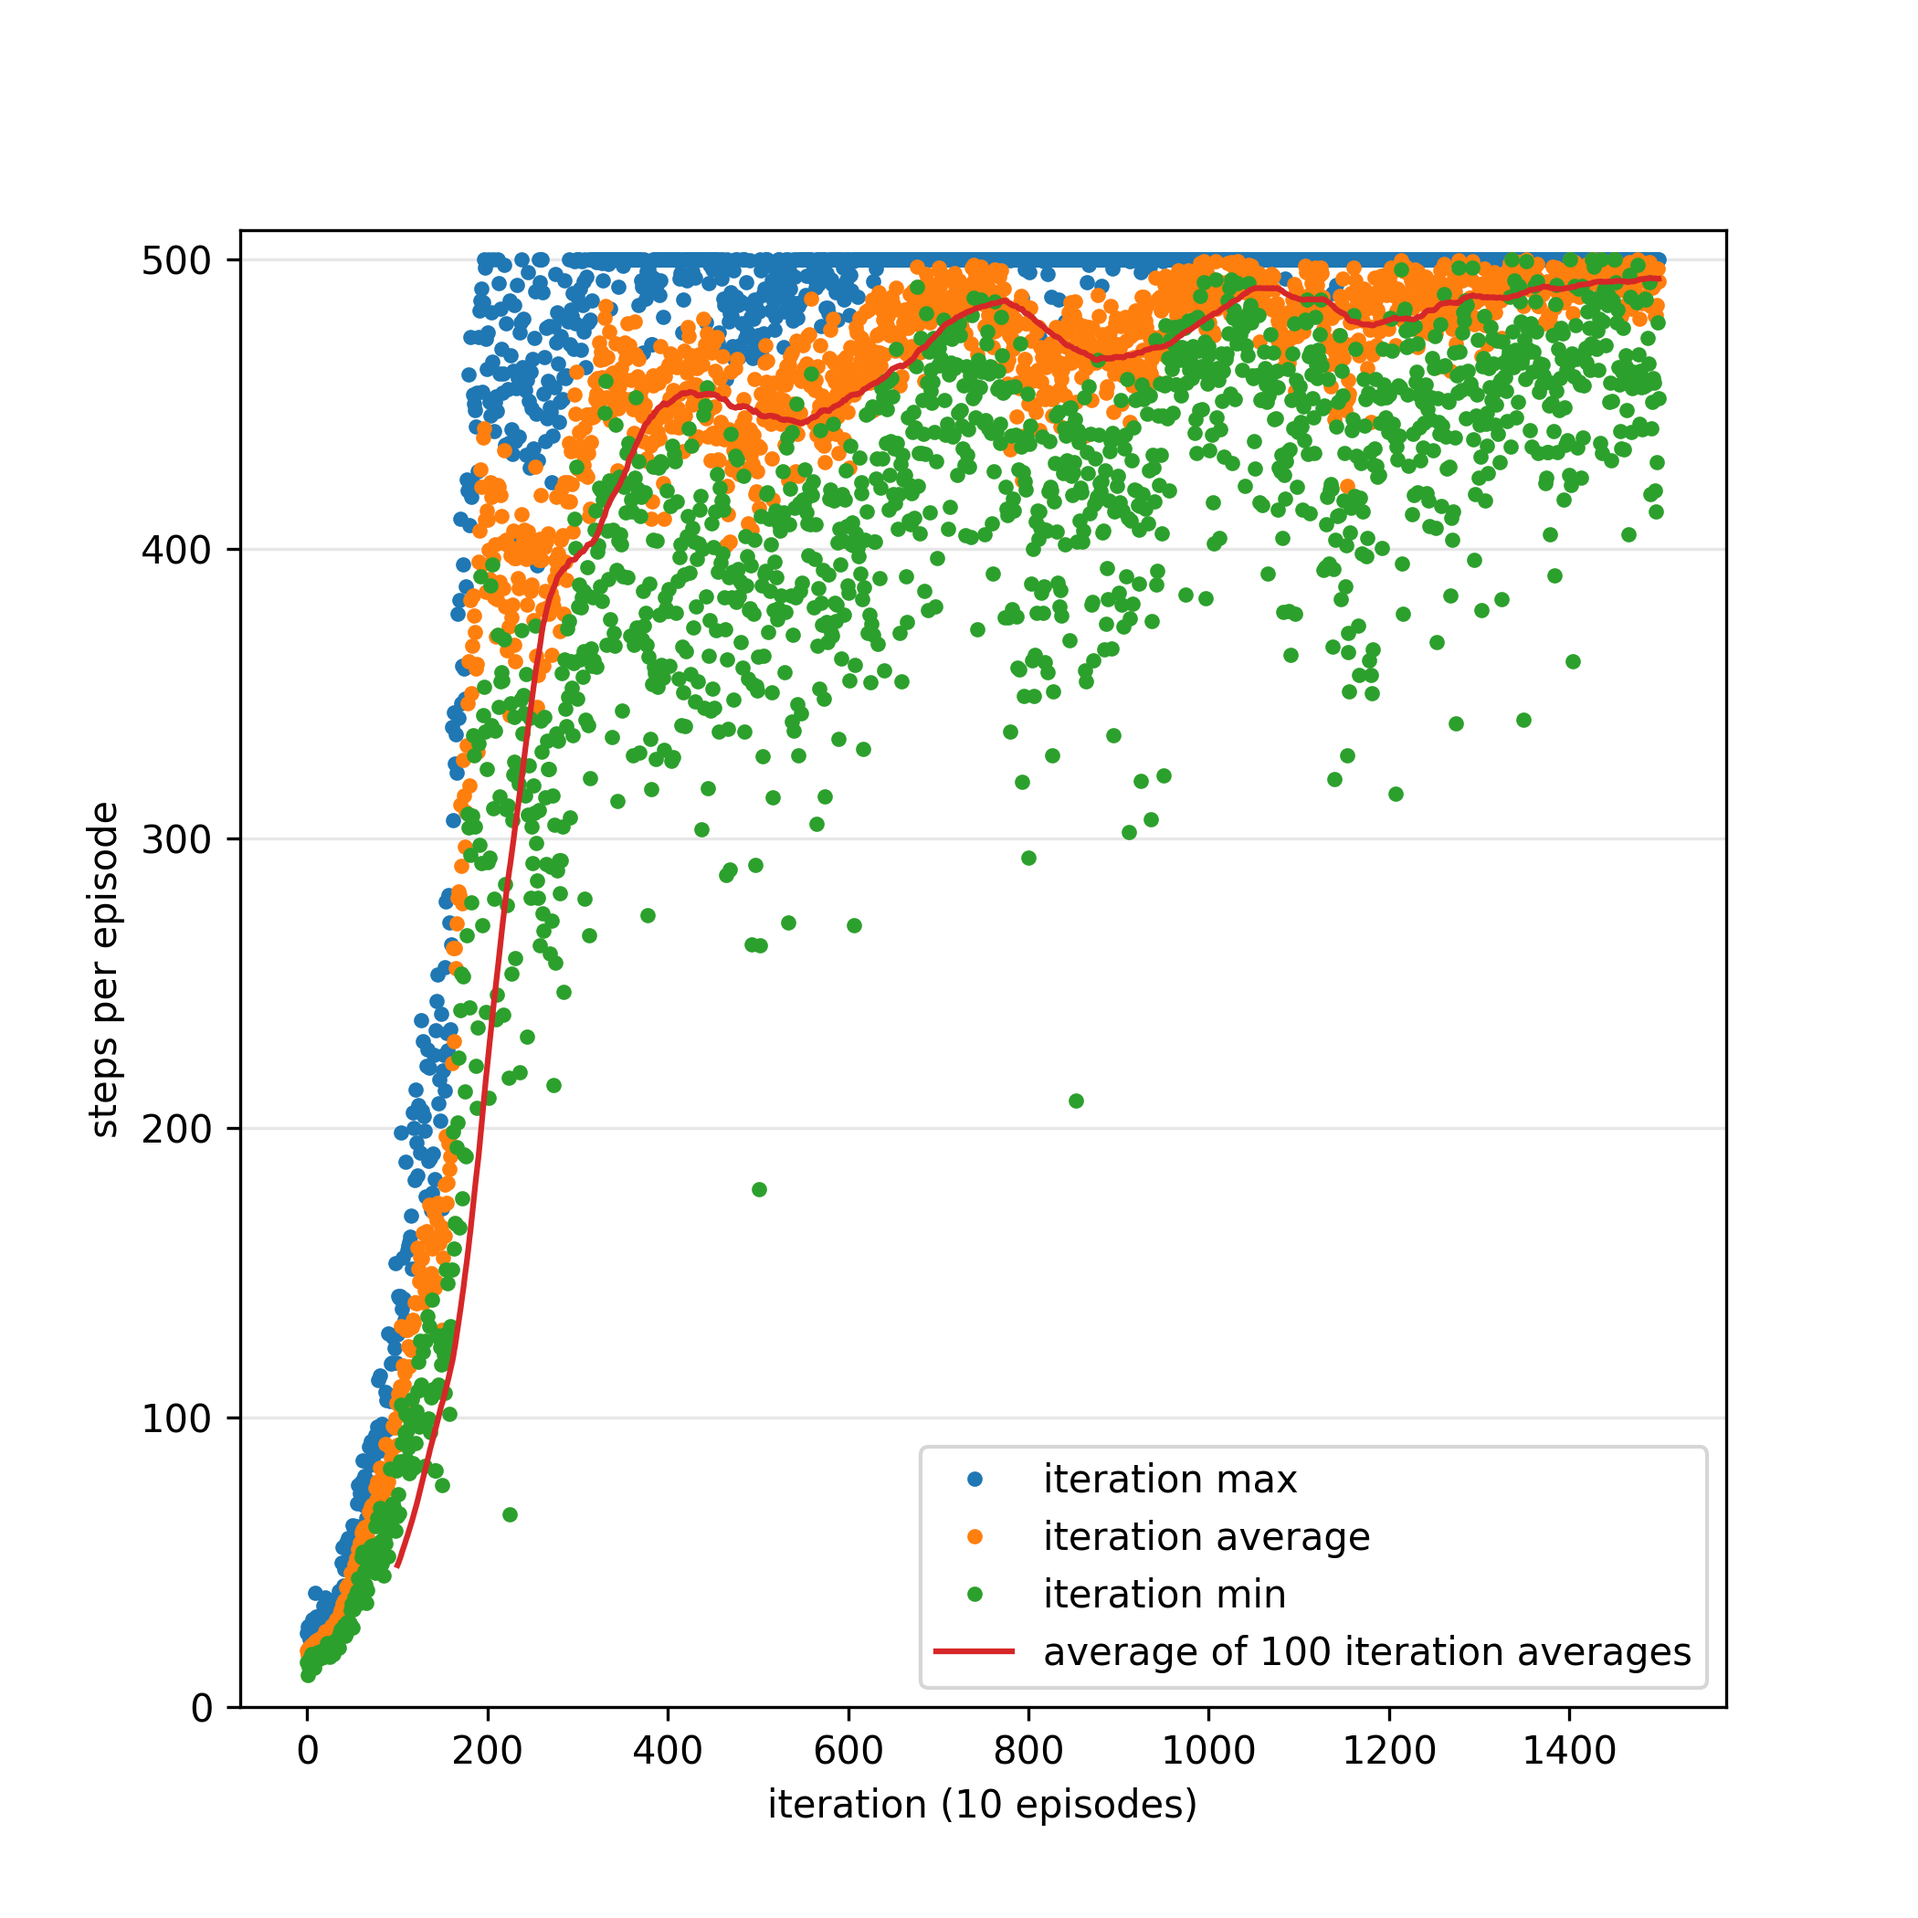
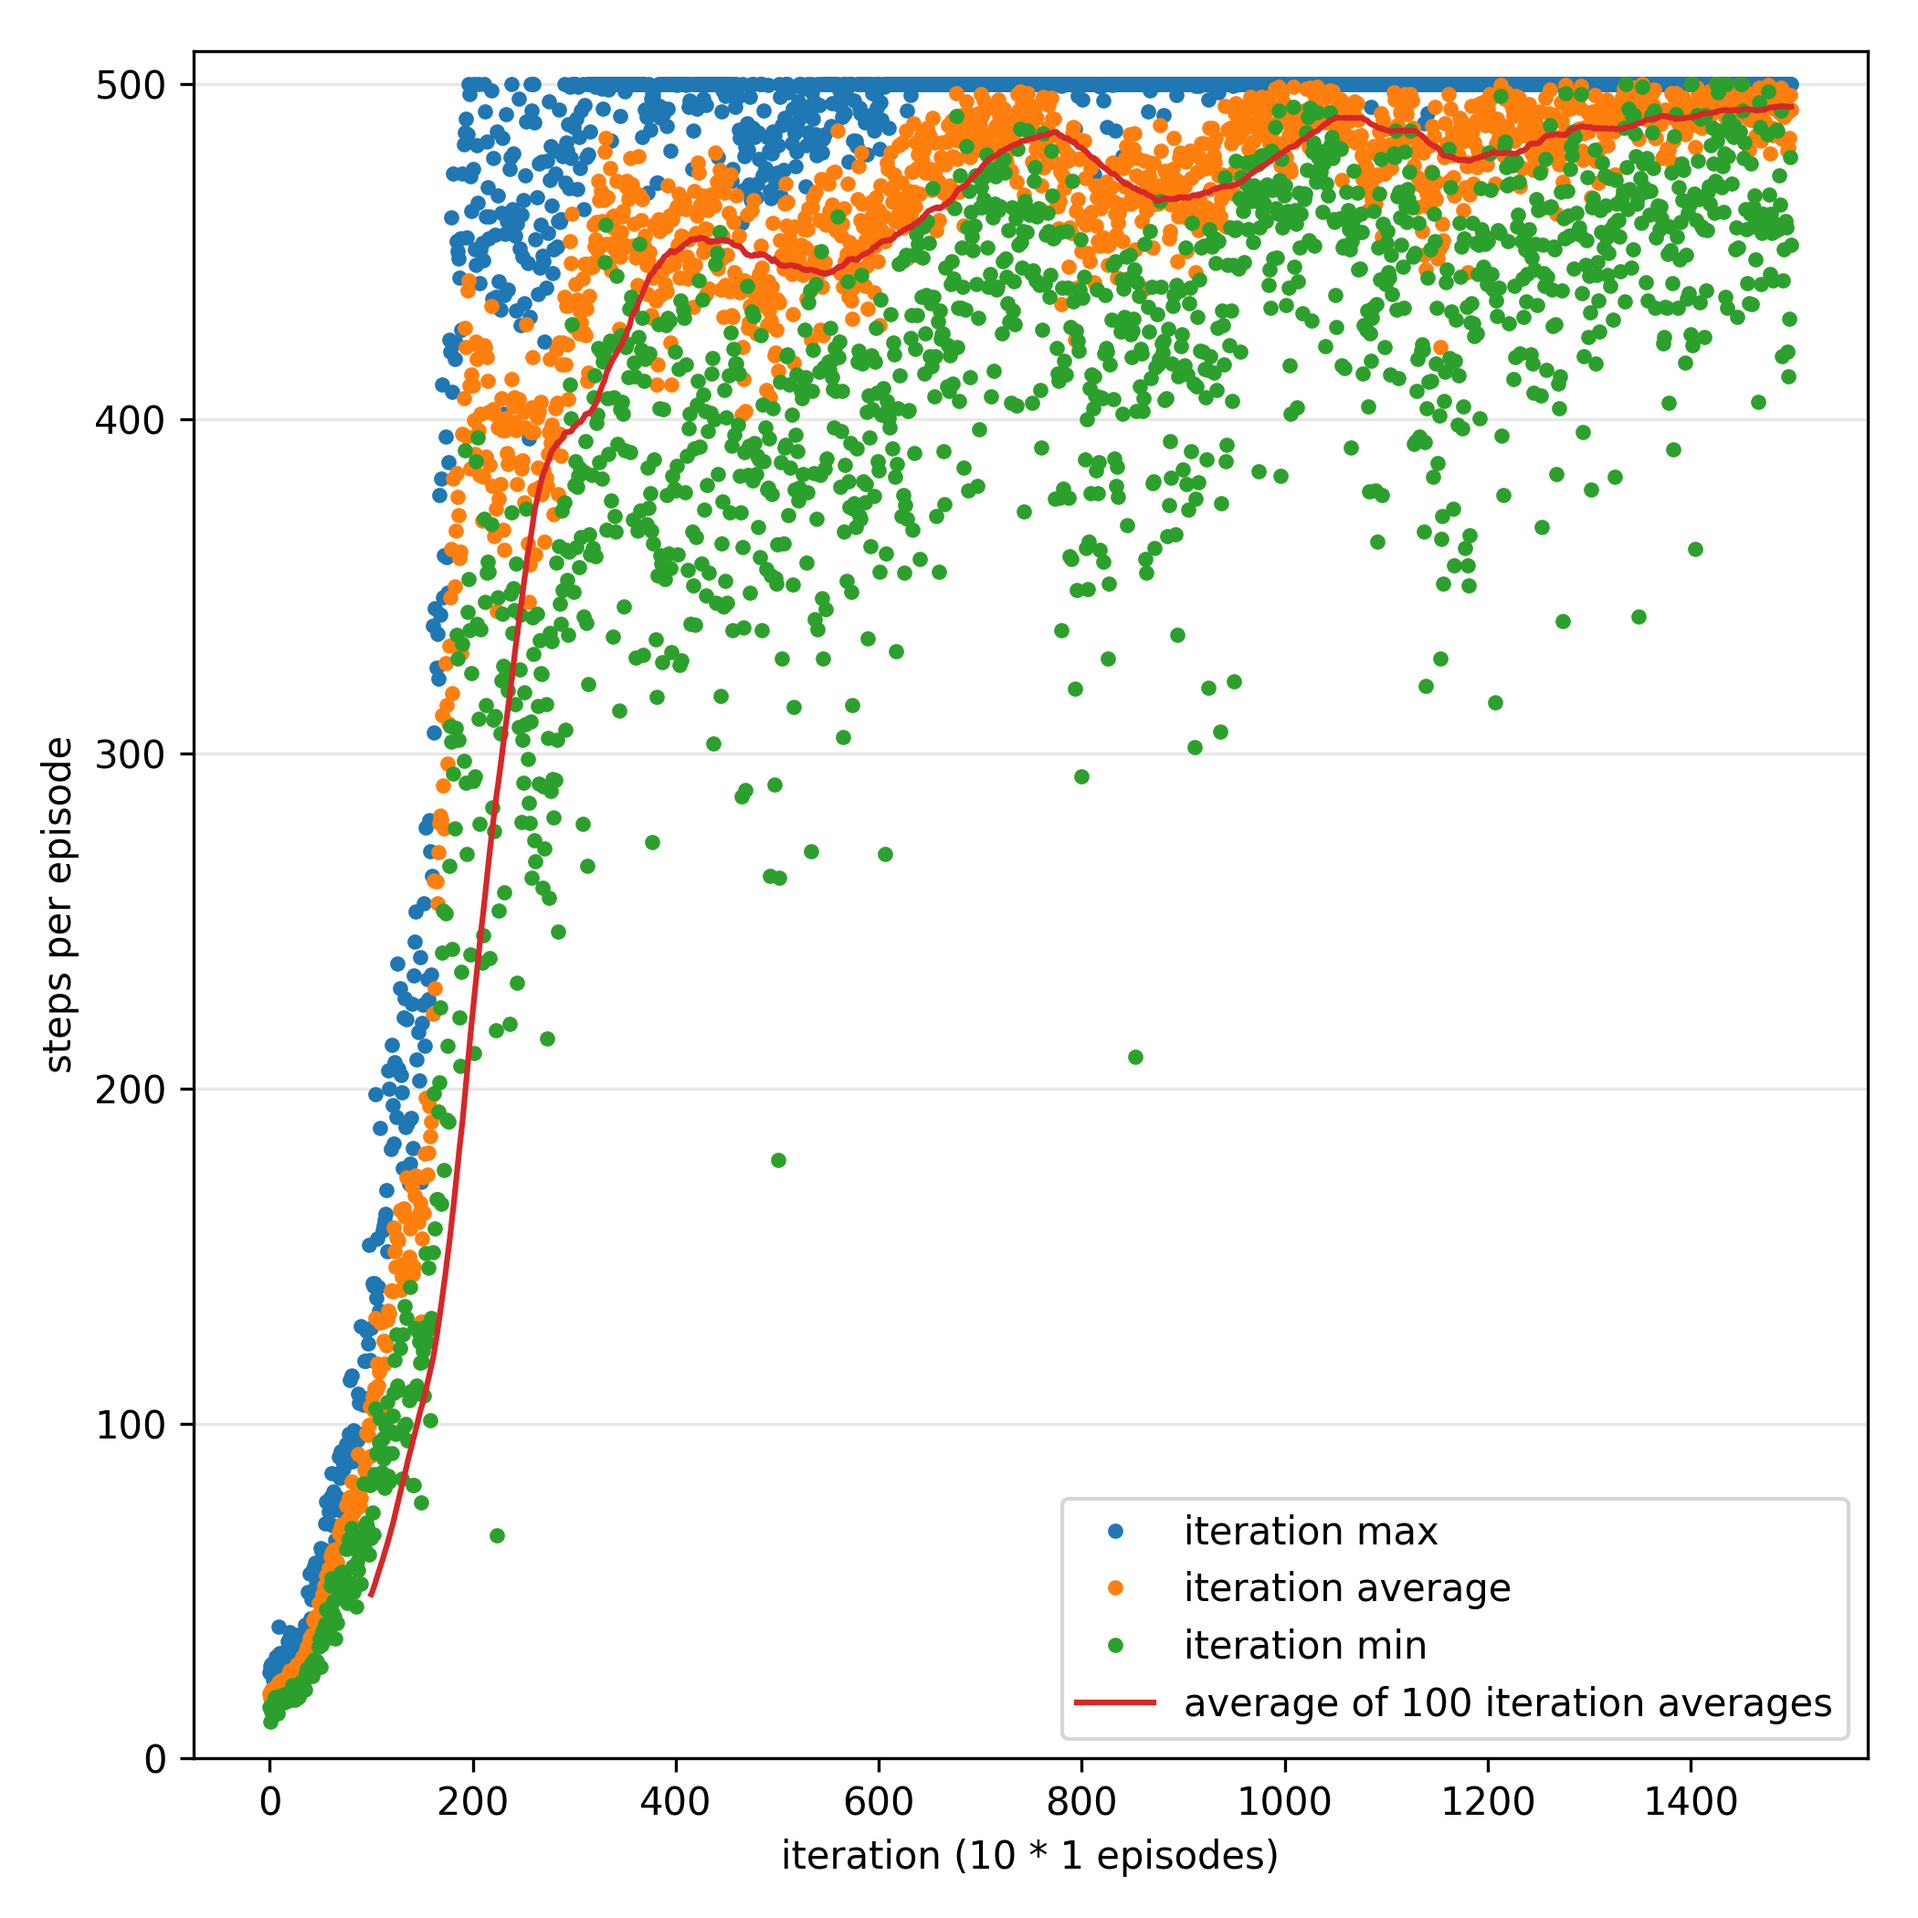
Update plots for EVOLstdprl results based on new code

diff --git a/neurosim/tools/eval_multimodel.py b/neurosim/tools/eval_multimodel.py
@@ -187,7 +187,7 @@ def spiking_frequencies_table(wdirs, outdir):
       writer.writerow(row)
 
 
-def iters_for_evol(wdir, outdir=None, steps=[100], delimit_wdirs=False, bval=1):
+def iters_for_evol(wdir, outdir=None, steps=[100], delimit_wdirs=False):
   if not outdir:
     outdir = wdir
   outputfile = os.path.join(
@@ -206,6 +206,13 @@ def iters_for_evol(wdir, outdir=None, steps=[100], delimit_wdirs=False, bval=1):
           'max': float(iter_max),
         })
 
+  pop = None
+  beta_iters = None
+  with open(os.path.join(wdir, 'backupcfg_sim.json')) as f:
+    config = json.load(f)
+    pop = config['ES']['population_size']
+    beta_iters = config['ES']['episodes_per_iter']
+
   plt.figure(figsize=(7,7))
   plt.ylim(0, 510)
   plt.grid(axis='y', alpha=0.3)
@@ -221,7 +228,7 @@ def iters_for_evol(wdir, outdir=None, steps=[100], delimit_wdirs=False, bval=1):
   plt.legend(['iteration max', 'iteration average', 'iteration min'] +
     ['average of {} iteration averages'.format(step) for step in tr_averages.keys()],
     loc='lower right', framealpha=0.95)
-  plt.xlabel('iteration ({} episodes)'.format(10 * bval))
+  plt.xlabel('iteration ({} * {} episodes)'.format(pop, beta_iters))
   plt.tight_layout()
 
   plt.savefig(outputfile, dpi=300)
@@ -248,6 +255,13 @@ def iters_for_evolstdprl(wdir, outdir=None, at_iter='alpha', steps=[100]):
           'max': float(iter_max),
         })
 
+  pop = None
+  beta_iters = None
+  with open(os.path.join(wdir, 'backupcfg_sim.json')) as f:
+    config = json.load(f)
+    pop = config['STDP_ES']['population_size']
+    beta_iters = config['STDP_ES']['beta_iters']
+
   plt.figure(figsize=(7,7))
   plt.ylim(0, 510)
   plt.grid(axis='y', alpha=0.3)
@@ -263,8 +277,70 @@ def iters_for_evolstdprl(wdir, outdir=None, at_iter='alpha', steps=[100]):
 
   plt.legend(['iteration max', 'iteration average', 'iteration min'] +
     ['average of {} iteration averages'.format(step) for step in tr_averages.keys()])
-  plt.xlabel('iteration (10 episodes)')
+  plt.xlabel('iteration ({} * {} episodes)'.format(pop, beta_iters))
+  plt.tight_layout()
   plt.savefig(outputfile, dpi=300)
+
+def all_iters_for_evolstdprl(wdir):
+  for at_iter in ['alpha', 'beta', 'gamma']:
+    iters_for_evolstdprl(wdir, at_iter=at_iter)
+
+def eval_for_evolstdprl(wdirs, outdir=None, steps=[100]):
+  if type(wdirs) == str:
+    wdirs = wdirs.split(',')
+
+  if not outdir:
+    outdir = wdirs[0]
+  outputfile = os.path.join(
+    outdir, 'evalperf_during_training.png')
+
+  plt.figure(figsize=(7,7))
+  plt.ylim(0, 510)
+  plt.grid(axis='y', alpha=0.3)
+  plt.ylabel('steps per episode')
+  legend = []
+  pop = None
+
+  for wdir in wdirs:
+    for at_iter in ['alpha', 'gamma']:
+      all_wdir_steps, _ = _extract_hpsteps(wdir)
+      training_results = []
+      offset = 0 if at_iter == 'alpha' else (4 if at_iter == 'beta' else 9)
+      for wdir_steps in all_wdir_steps:
+        with open(os.path.join(wdir_steps, 'STDP_es_train.csv')) as f:
+          for row in csv.reader(f, delimiter=','):
+            iter_median, iter_mean, iter_min, iter_max = row[offset:offset+4]
+            training_results.append({
+              'median': float(iter_median),
+              'mean': float(iter_mean),
+              'min': float(iter_min),
+              'max': float(iter_max),
+            })
+
+      beta_iters = None
+      with open(os.path.join(wdir, 'backupcfg_sim.json')) as f:
+        config = json.load(f)
+        new_pop = config['STDP_ES']['population_size']
+        if not pop:
+          pop = new_pop
+        if new_pop != pop:
+          raise Exception("Different population sizes")
+        beta_iters = config['STDP_ES']['beta_iters']
+
+      tr_averages = {STEP: _get_agg([tr['mean'] for tr in training_results], STEP, np.average) for STEP in steps}
+      # plt.plot(list(range(len(training_results))), [tr['mean'] for tr in training_results], '.')
+      for step, averages in tr_averages.items():
+        plt.plot([t + step for t in range(len(averages))], averages)
+
+      legend.append('B{} model {} STDP'.format(
+        beta_iters,
+        'before' if at_iter == 'alpha' else 'after'))
+
+  plt.legend(legend)
+  plt.xlabel('iteration ({} * B episodes)'.format(pop))
+  plt.tight_layout()
+  plt.savefig(outputfile, dpi=300)
+
 
 def all_iters_for_evolstdprl(wdir):
   for at_iter in ['alpha', 'beta', 'gamma']:
@@ -564,6 +640,7 @@ if __name__ == '__main__':
       'train-perf-comb': steps_per_eps_combined,
       'train-perf-evol': iters_for_evol,
       'train-perf-evolstdprl': all_iters_for_evolstdprl,
+      'train-eval-evolstdprl': eval_for_evolstdprl,
       'train-unk-moves': undecided_moves,
       'eval-perf': eval_perf,
       'select-eps': select_episodes,

diff --git a/neurosim/log_many_things.md b/neurosim/log_many_things.md
@@ -21,16 +21,8 @@ py neurosim/tools/eval_multimodel.py train-perf $WDIR --wdir-name "EVOL goodseed
 WDIR=results/20220123-EVOL_b1-goodseed/continue_1
 WDIR=results/20220123-EVOL_b1-goodseed/continue_1/continue_1
 WDIR=results/20220123-EVOL_b1-goodseed/continue_1/continue_1/continue_1/continue_1
-WDIR=results/20220124-EVOL_b1-badseed/continue_1
-WDIR=results/20220124-EVOL_b1-badseed/continue_1/continue_1
-WDIR=results/20220124-EVOL_b1-badseed/continue_1/continue_1/continue_1
-WDIR=results/20220124-EVOL_b1-badseed/continue_1/continue_1/continue_1/continue_1
-WDIR=results/20220124-EVOL_b1-badseed/continue_1/continue_1/continue_1/continue_1/continue_1
 WDIR=results/20220124-EVOL_b1-badseed/continue_1/continue_1/continue_1/continue_1/continue_1/continue_1
-WDIR=results/20220128-EVOL_b5-badseed/
-WDIR=results/20220128-EVOL_b5-badseed/continue_1/continue_1
 WDIR=results/20220128-EVOL_b5-badseed/continue_1/continue_1/continue_1/continue_1/continue_1/continue_1/continue_1/continue_1/continue_1/continue_1
-WDIR=results/20220129-EVOL_b5-goodseed/continue_1
 WDIR=results/20220129-EVOL_b5-goodseed/continue_1/continue_1/continue_1/continue_1/continue_1/continue_1/continue_1/continue_1
 py neurosim/tools/eval_multimodel.py train-perf-evol $WDIR
 
@@ -124,19 +116,19 @@ py neurosim/tools/eval_multimodel.py boxplot "${CONF1},${CONF2},${CONF3},${CONF4
 WDIR=results/20220123-EVOL_b1-goodseed/continue_1/continue_1/continue_1/continue_1
 py neurosim/tools/eval_multimodel.py train-perf-evol $WDIR
 WDIR=results/20220129-EVOL_b5-goodseed/continue_1/continue_1/continue_1/continue_1/continue_1
-py neurosim/tools/eval_multimodel.py train-perf-evol $WDIR --bval 5
+py neurosim/tools/eval_multimodel.py train-perf-evol $WDIR
 # Bad Seed B1 / B5
 WDIR=results/20220124-EVOL_b1-badseed/continue_1/continue_1/continue_1/continue_1/continue_1
 py neurosim/tools/eval_multimodel.py train-perf-evol $WDIR
 WDIR=results/20220128-EVOL_b5-badseed/continue_1/continue_1/continue_1/continue_1/continue_1/continue_1/continue_1/continue_1/continue_1/continue_1
-py neurosim/tools/eval_multimodel.py train-perf-evol $WDIR --bval 5
+py neurosim/tools/eval_multimodel.py train-perf-evol $WDIR
 
 
 mkdir $WDIR/evalmockAllStates
 STEPS=20
 for ((i=0;i<$STEPS;i+=1)); do
     echo "Evaluating Step $i / $STEPS"
-    py neurosim/main.py eval $WDIR --resume_tidx=3 --eps-duration 1 \
+    py neurosim/main.py eval $WDIR --resume_tidx=58 --eps-duration 1 \
         --mock-env 2 \
         --duration 1300 \
         --mock_curr_step $i \
@@ -163,3 +155,34 @@ WDIR=results/evol-stdp-rl_2022-01-21/STDP_ES_worst_beta1_pop10.small
 py neurosim/tools/eval_multimodel.py train-perf-evolstdprl $WDIR
 WDIR=results/evol-stdp-rl_2022-01-21/STDP_ES_worst_beta5_pop10.small
 py neurosim/tools/eval_multimodel.py train-perf-evolstdprl $WDIR
+
+WDIR=results/evol-stdp-rl_2022-01-21
+py neurosim/tools/eval_multimodel.py train-eval-evolstdprl \
+    ${WDIR}/STDP_ES_worst_beta1_pop10.small,${WDIR}/STDP_ES_worst_beta5_pop10.small
+
+eval_for_evolstdprl
+
+for EMODEL in STDP_ES_best_beta1_pop10.small STDP_ES_best_beta5_pop10.small STDP_ES_worst_beta1_pop10.small STDP_ES_worst_beta5_pop10.small
+do
+    WDIR=results/evol-stdp-rl_2022-01-21/$EMODEL
+    git add -f $WDIR/backupcfg_sim.json
+    git add -f $WDIR/iters_during_*.png
+done
+
+
+
+# EVOL-STDP-RL models
+WDIR=results/evol-stdp-rl_2022-01-21/STDP_ES_best_beta1_pop10.small
+py neurosim/main.py eval $WDIR --resume_tidx=58 --env-seed 42 \
+    --eps-duration 100 --save-data
+WDIR=results/evol-stdp-rl_2022-01-21/STDP_ES_best_beta5_pop10.small
+py neurosim/main.py eval $WDIR --resume_tidx=59 --env-seed 42 \
+    --eps-duration 100 --save-data
+WDIR=results/evol-stdp-rl_2022-01-21/STDP_ES_worst_beta1_pop10.small
+py neurosim/main.py eval $WDIR --resume_tidx=56 --env-seed 42 \
+    --eps-duration 100 --save-data
+WDIR=results/evol-stdp-rl_2022-01-21/STDP_ES_worst_beta5_pop10.small
+py neurosim/main.py eval $WDIR --resume_tidx=52 --env-seed 42 \
+    --eps-duration 100 --save-data
+
+
